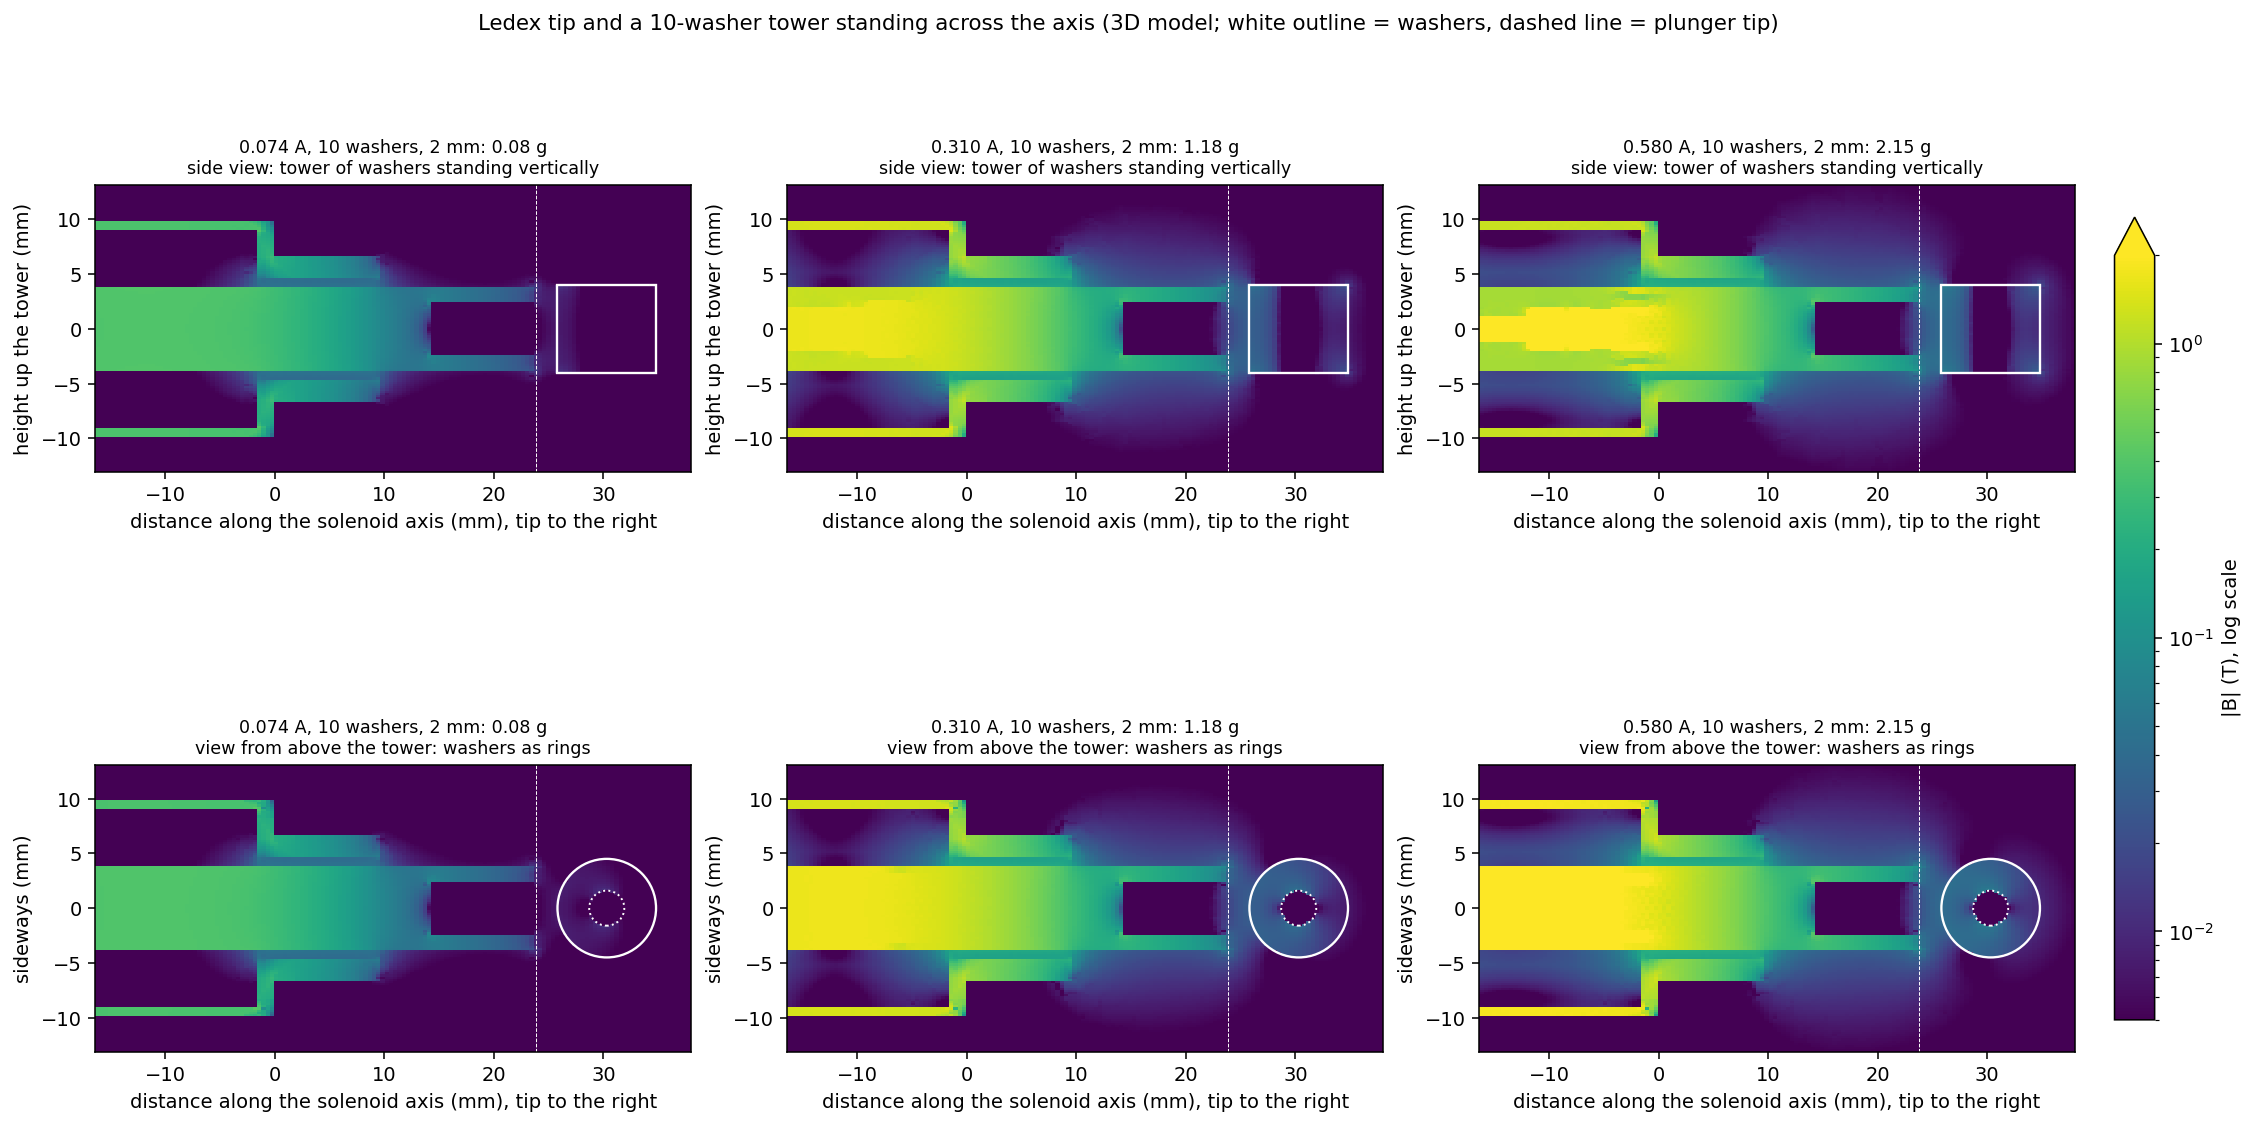
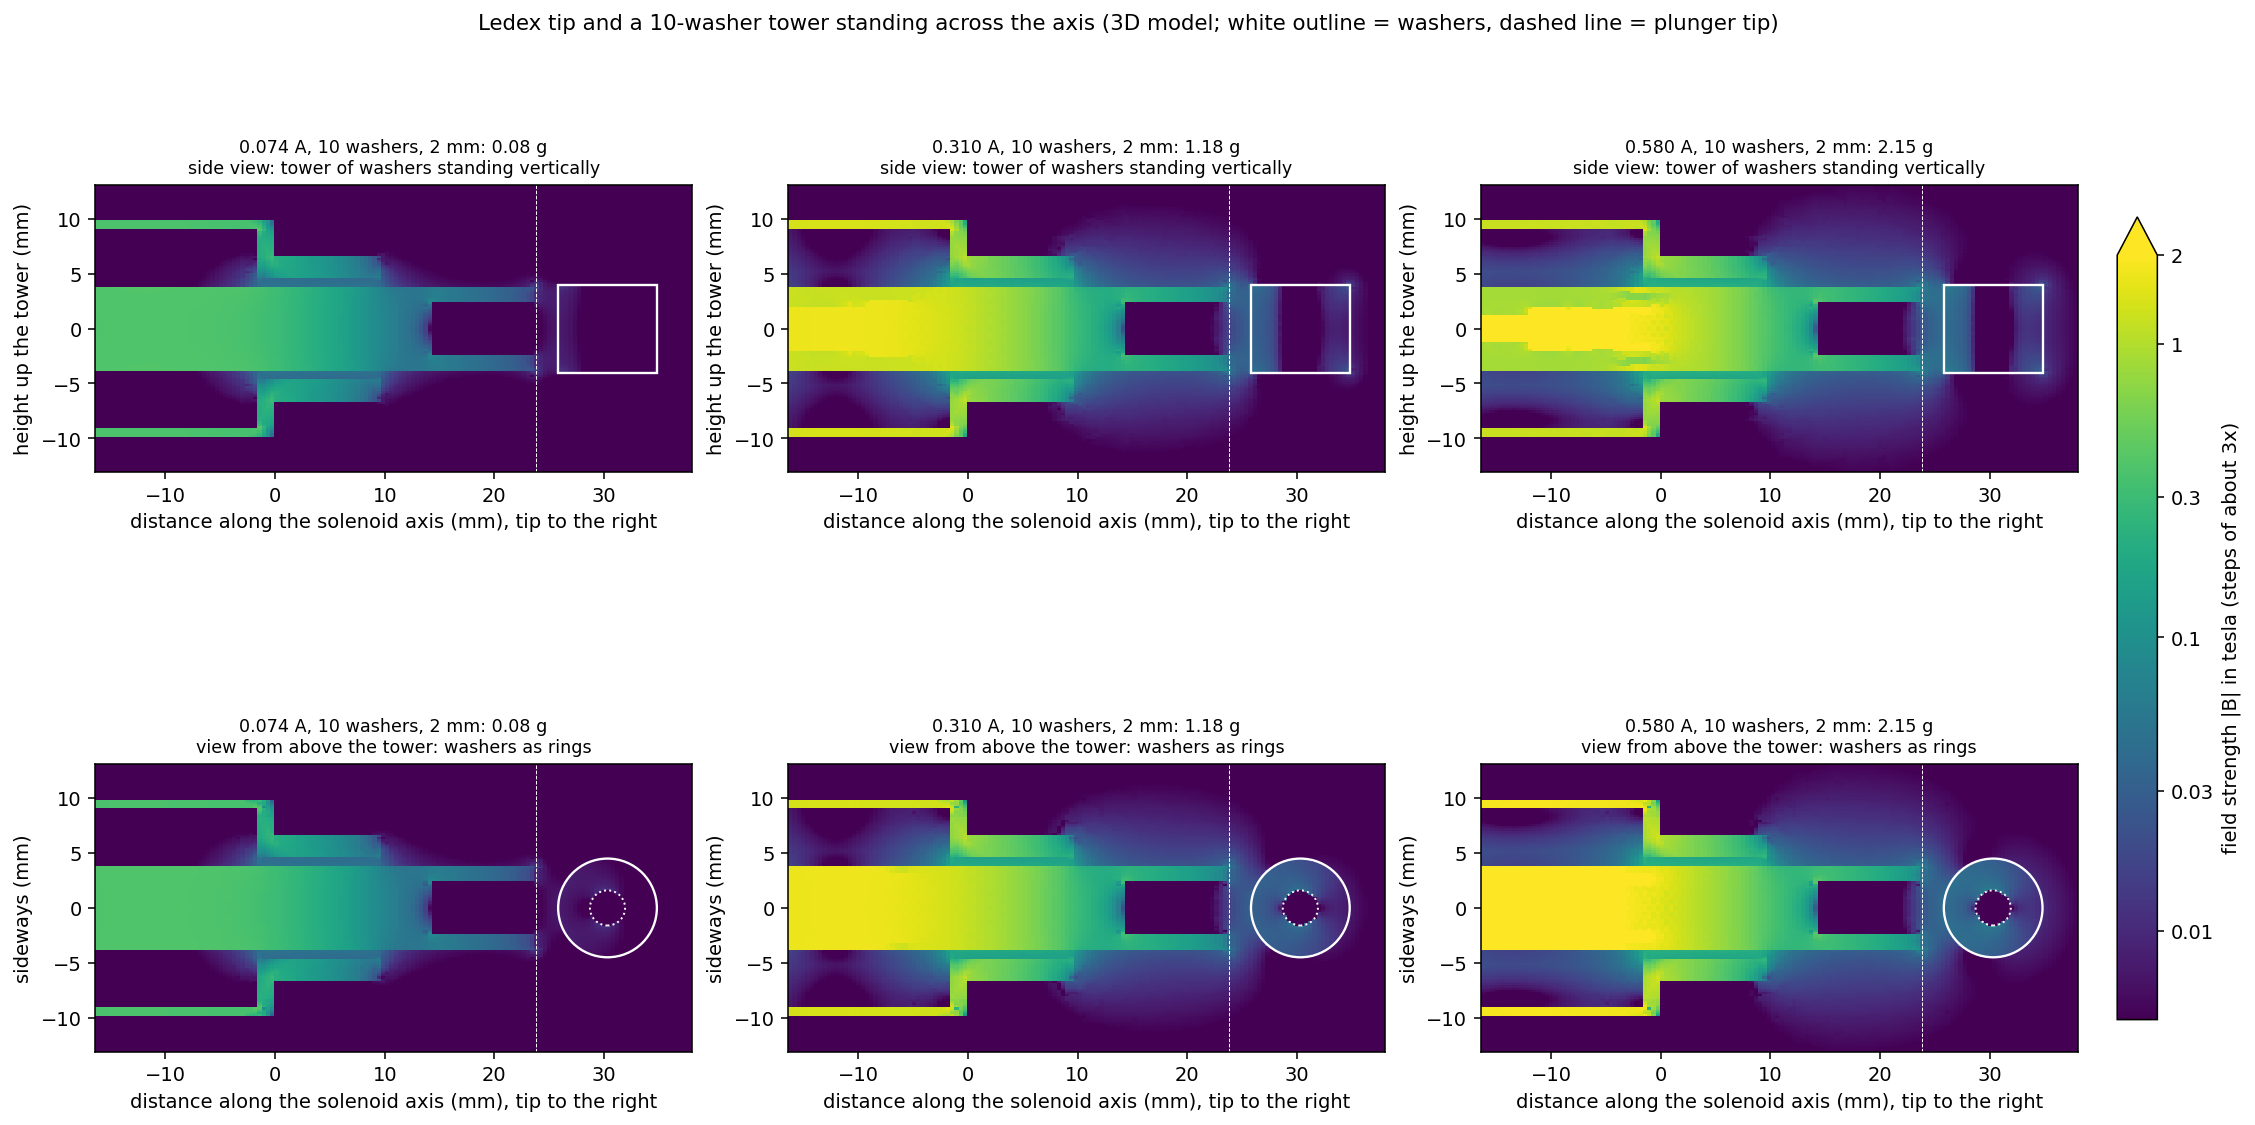
Use plain tick labels on the 3D field colorbar.

diff --git a/simulations/ledex_femm/plot_fea3d.py b/simulations/ledex_femm/plot_fea3d.py
@@ -86,7 +86,11 @@ def main():
             ax.set_xlabel("distance along the solenoid axis (mm), tip to the right")
             ax.set_title("{:.3f} A, {} washers, 2 mm: {:.2f} g\n{}".format(a, N, fz, lab), fontsize=9)
     cb = fig.colorbar(im, ax=axs, shrink=0.7, pad=0.02, extend="max")
-    cb.set_label("|B| (T), log scale")
+    ticks = [0.01, 0.03, 0.1, 0.3, 1.0, 2.0]
+    cb.set_ticks(ticks)
+    cb.set_ticklabels(["0.01", "0.03", "0.1", "0.3", "1", "2"])
+    cb.ax.minorticks_off()
+    cb.set_label("field strength |B| in tesla (steps of about 3x)")
     fig.suptitle("Ledex tip and a 10-washer tower standing across the axis (3D model; white outline = washers, "
                  "dashed line = plunger tip)", fontsize=11)
     fig.savefig(os.path.join(READ, "across_field_10washers_gap2mm.png"), dpi=140, bbox_inches="tight")
